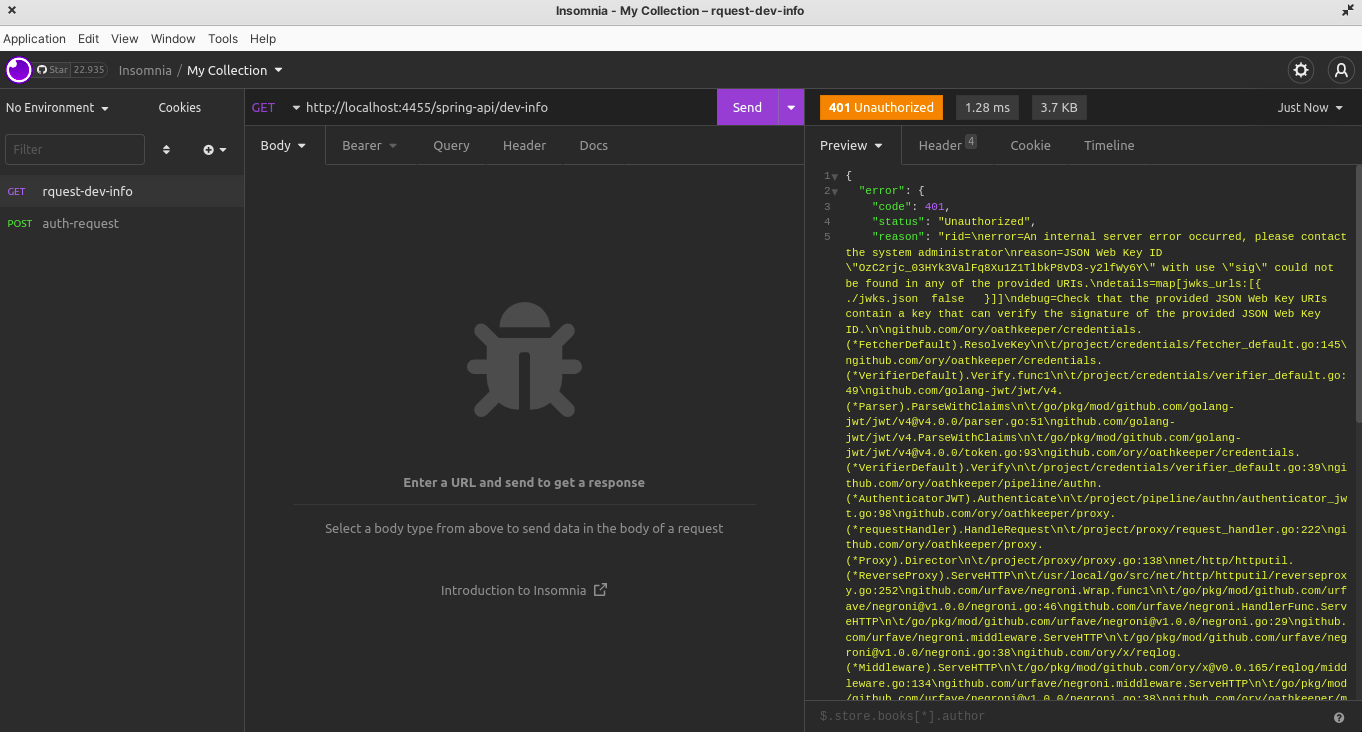
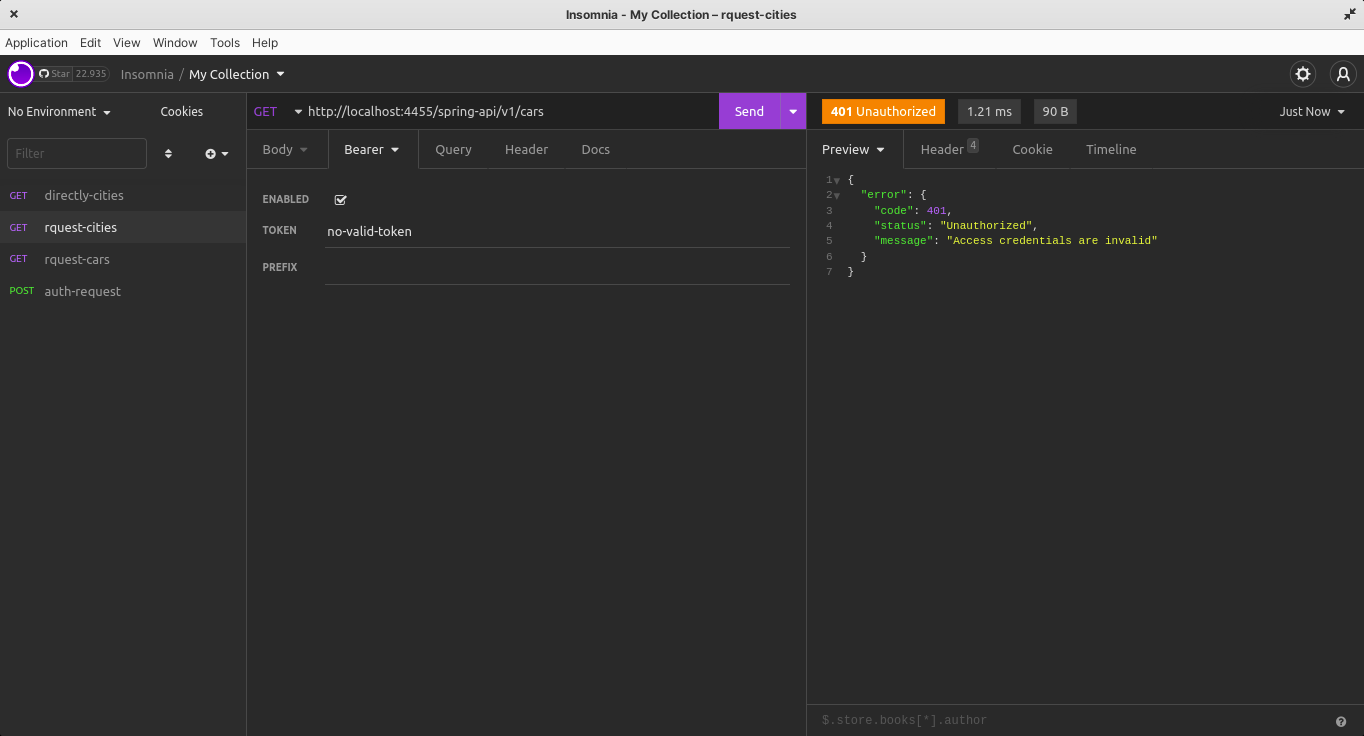
updating READ ME.

diff --git a/README.md b/README.md
@@ -25,7 +25,7 @@ Also over APACHE2.0 license.
 
 ## What you need
 
-Have been installed _docker_ and _docker-compose_ in your system is all you need to run the project. [docker-main-page](https://docs.docker.com/engine/install/ubuntu/)
+Have installed _docker_ and _docker-compose_ in your system is all you need to run the project. [docker-main-page](https://docs.docker.com/engine/install/ubuntu/)
 
 Just follow the steps to be able to run any containers you wish over the kernel layer of your system.
 
@@ -35,9 +35,9 @@ As simple as it could be, just open a terminal and type on the root folder of th
 
     ./start.sh
 
-A *.sh* will be executed, raising up four docker containers, to simulate a autenticate local area. Among this containers, two REST apis will be exposed, making necessary a valid token to get the response. But, before check the response over HTTP1.1, we gonna create a keycloak client.
+A *.sh* will be executed, raising up four docker containers, to simulate a autenticate local area. Among this containers, two REST apis will be exposed, making necessary a valid token to get the response. But, before check the response over HTTP1.1, we need create a keycloak client.
 
-Keycloak can be sliced in many environments. But we gonna use what has already come. The allmight _master_. :volcano:
+Keycloak can be sliced in how environments you wish. But we gonna use what has already come. The allmight _master_. :volcano:
 
 ### Creating a keycloak client
 
@@ -98,7 +98,7 @@ And using Form URL Encodend, we send:
 
 Until this point, all we got is a functional auth module. With Ory Oathkeeper well pointed and seted by the files _jwks_ and _rules_ files, we are ready to test our embedded APIs. 
 
-1. Lets make a GET requisition to _http://localhost:4455/spring-api/dev-info_ with no valid token: 
+1. Lets make a GET requisition to _http://localhost:4455/spring-api/v1/cars_ with no valid token: 
 
 ![login page](imgs/401.png)
 
